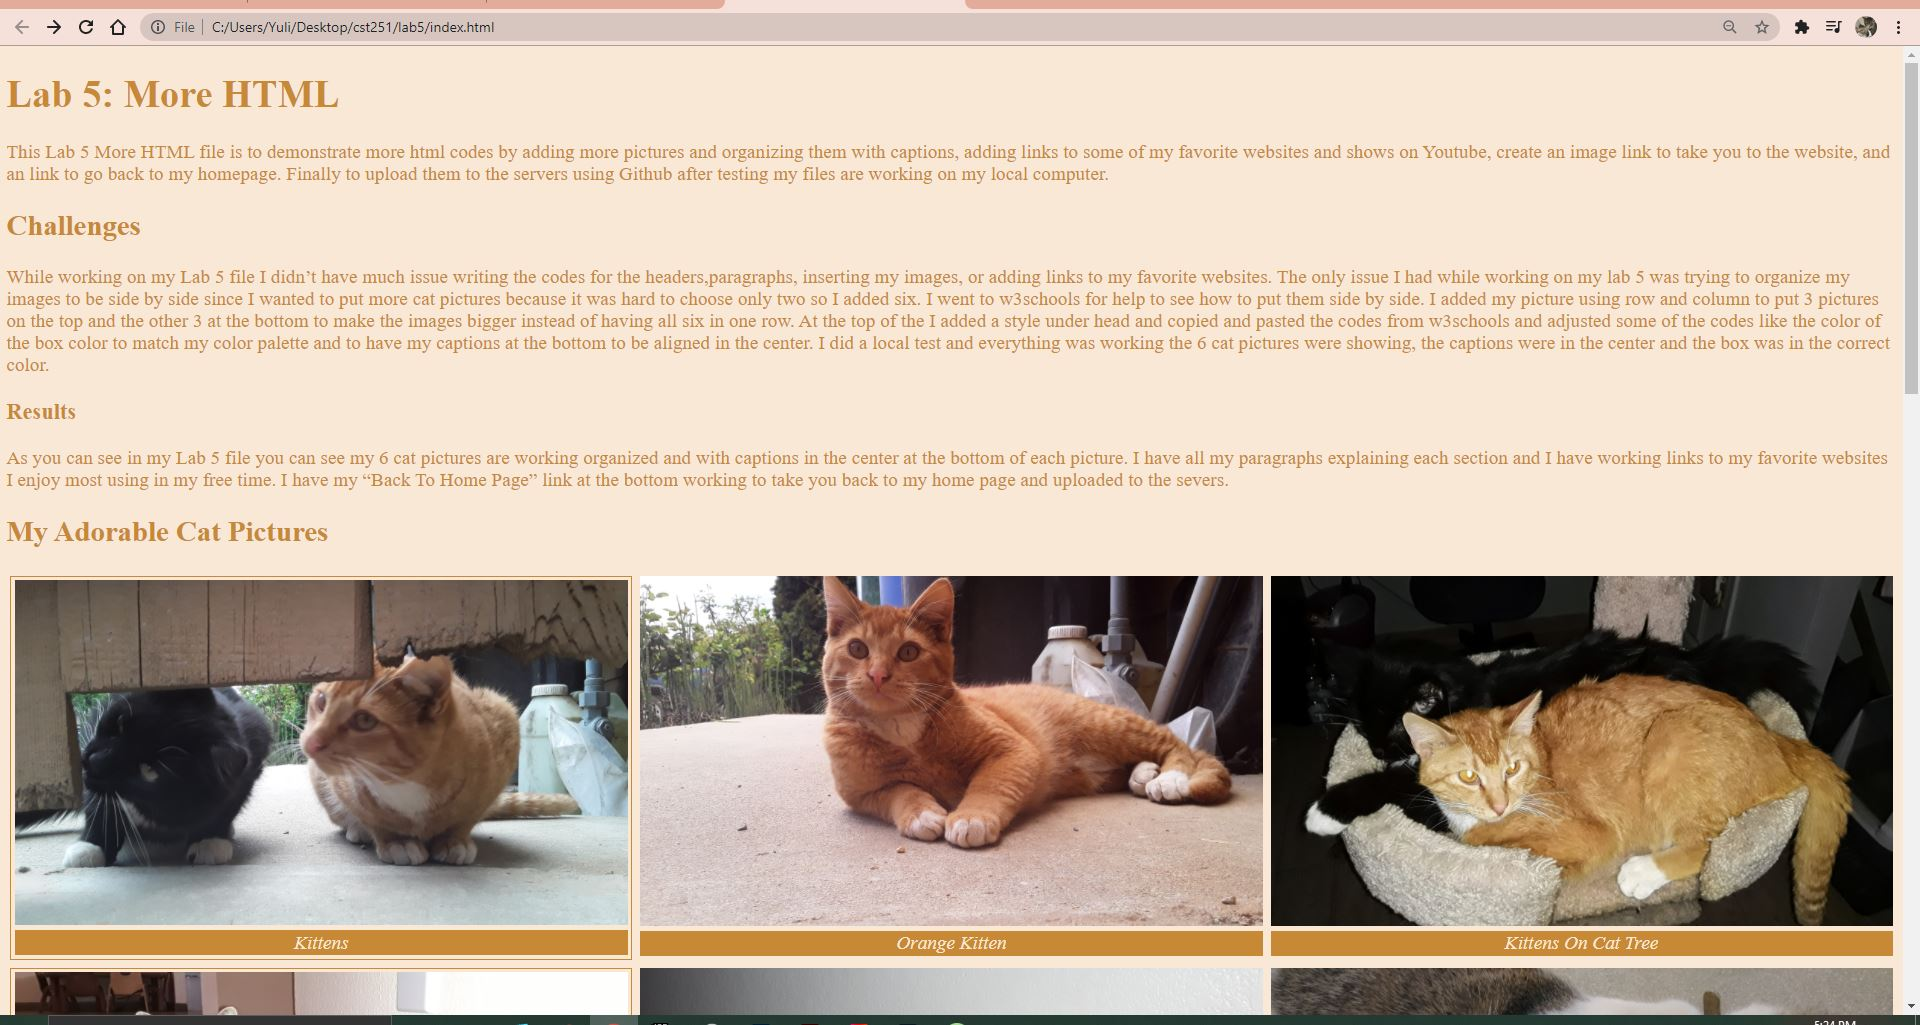
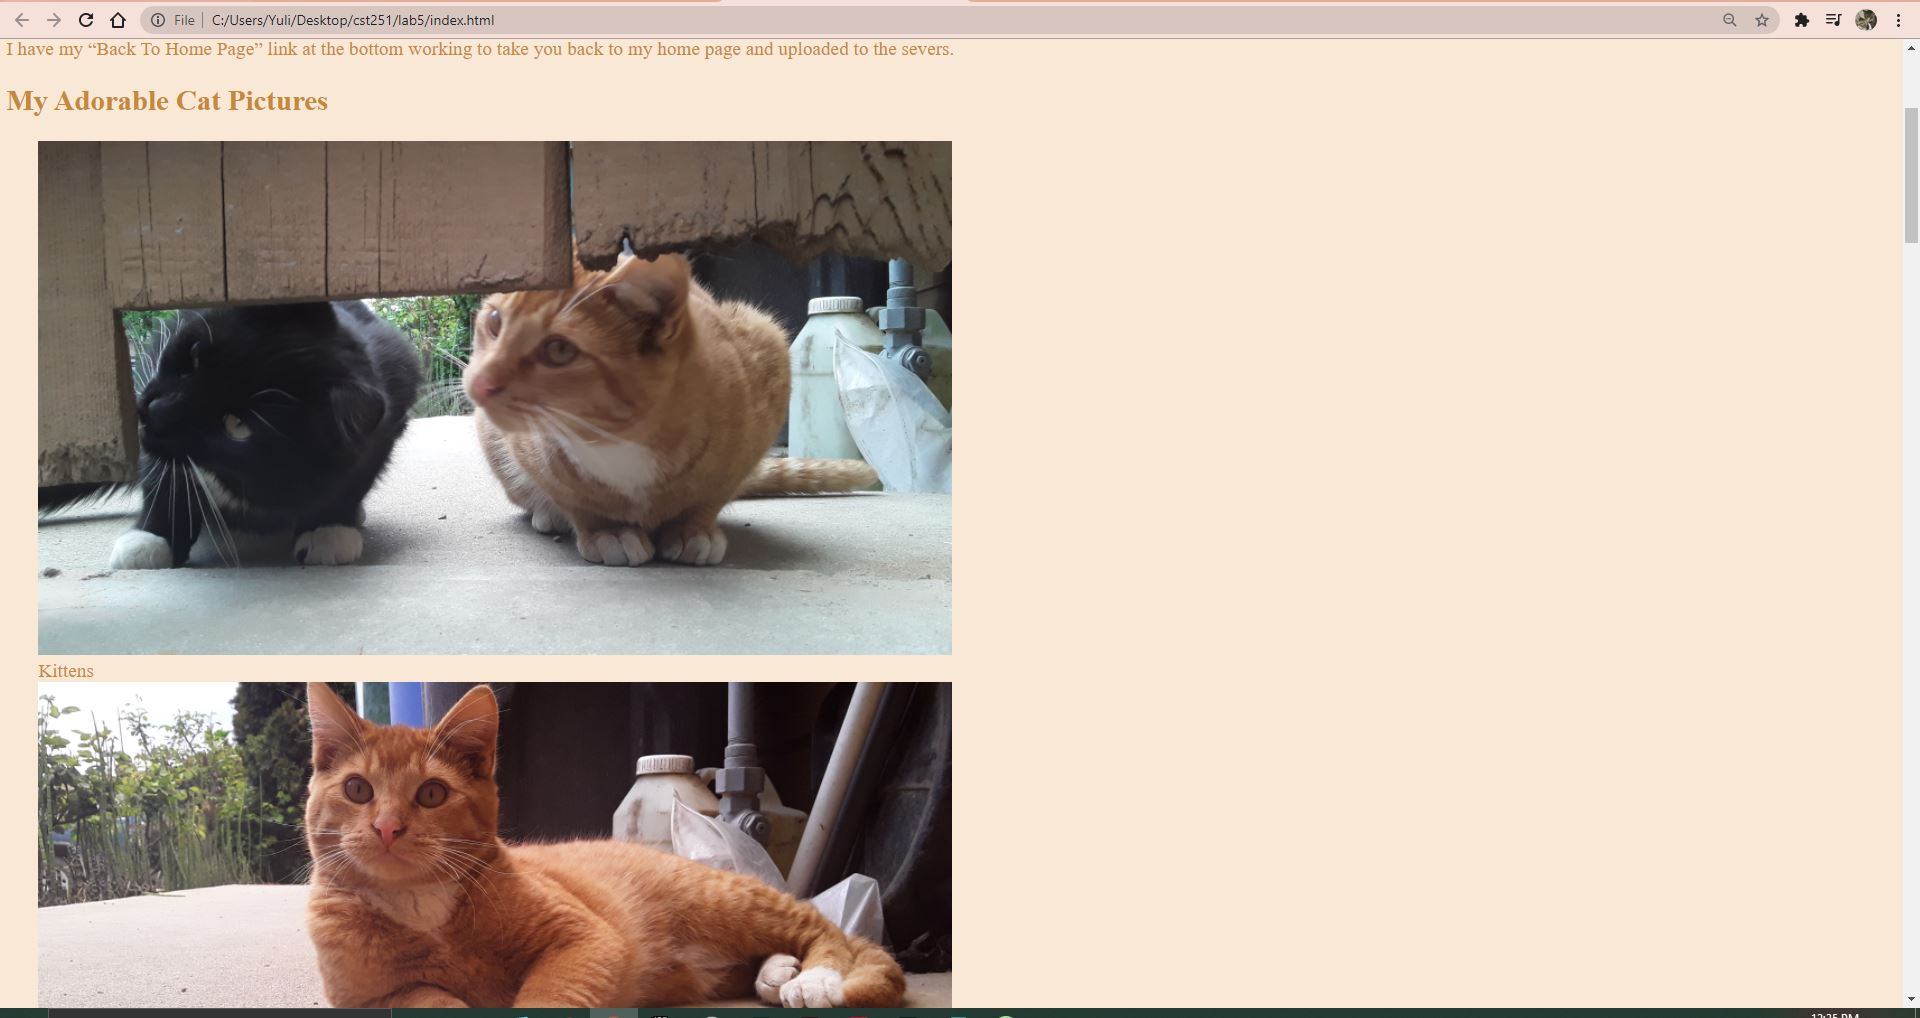
fixed lab5 index.html

diff --git a/lab5/index.html b/lab5/index.html
@@ -1,36 +1,9 @@
 <!DOCTYPE html>
 <html>
 <head>
-	<style>
 	<title>Lab 5: More HTML</title>
 	<link rel="stylesheet" type="text/css" href="../css/site.css">
 	<link rel="stylesheet" type="text/css" href="css/lab.css">
-	* {
-	  box-sizing: border-box;
-	}
-
-	.row {
-	  display: flex;
-	}
-	.column {
-	  flex: 33.33%;
-	  padding: 5px;
-	}
-
-	figure {
-  border: 1px #c88937 solid;
-  padding: 4px;
-  margin: auto;
-}
-
-figcaption {
-  background-color: #c88937;
-  color: #c88937;
-  font-style: italic;
-  padding: 2px;
-  text-align: center;
-}
-	</style>
 </head>
 <body style="background-color:#fae8d6">
 
@@ -46,60 +19,35 @@ figcaption {
 		<p style="color:#c88937;">While working on my Lab 5 file I didn’t have much issue writing
 			the codes for the headers,paragraphs, inserting my images, or adding links to
 			my favorite websites.  The only issue I had while working on my lab 5 was
-			trying to organize my images to be side by side since I wanted to put more
-			cat pictures because it was hard to choose only two so I added six.  I went
-			to w3schools for help to see how to put them side by side. I added my picture
-			using row and column to put 3 pictures on the top and the other 3 at the bottom
-			to make the images bigger instead of having all six in one row.  At the top of
-			the I added a style under head and copied and pasted the codes from w3schools
-			and adjusted some of the codes like the color of the box color to match my
-			color palette and to have my captions at the bottom to be aligned in the center.
-			I did a local test and everything was working the 6 cat pictures were showing,
-			the captions were in the center and the box was in the correct color.</p>
+			the picture because I put more some were showing up testing local but I went back to my
+			files to rename the ones not working to something simple and changed the img code to the
+			new name and did a local test again.  The local was now working perfectly and I
+			tested everything the links and clicking on my pixel art to open to a new tab and
+			returning back to my home page.</p>
 
 <h3 style="color:#c88937;">Results</h3>
 	<p style="color:#c88937;">As you can see in my Lab 5 file you can see my 6 cat
-		pictures are working organized and with captions in the center at the bottom
-		of each picture.  I have all my paragraphs explaining each section and I have
-		working links to my favorite websites I enjoy most using in my free time.  I
-		have my “Back To Home Page” link at the bottom working to take you back to my
-		home page and uploaded to the severs.</p>
+		pictures and with captions at the bottom of each picture.  I have all my paragraphs
+		explaining each section and I have working links to my favorite websites I enjoy
+		most using in my free time.  I have my “Back To Home Page” link at the bottom
+		working to take you back to my home page and uploaded to the severs.</p>
 
 <h2 style="color:#c88937;">My Adorable Cat Pictures</h2>
+	<figure>
+		<img src="img/kittens.jpg" alt="two kittens" style="width:50%">
+			<figcaption style="color:#c88937;">Kittens</figcaption>
+		<img src="img/orange.jpg" alt="Picture of Orange Tabby Cat" style="width:50%">
+			<figcaption style="color:#c88937;">Orange Kitten</figcaption>
+		<img src="img/cattree.jpg" alt="Cats on a Cat Tree" style="width:50%">
+			<figcaption style="color:#c88937;"> Kittens On Cat Tree</figcaption>
+		<img src="img/cats.jpg" alt="Two Cats" style="width:50%">
+			<figcaption style="color:#c88937;">Chi & Black Kitten</figcaption>
+		<img src="img/chi.jpg" alt="Chi Sleeping" style="width:50%"><br>
+			<figcaption style="color:#c88937;">Chi Sleeping</figcaption>
+		<img src="img/kirby.jpg" alt="Kirby Playing" style="width:50%"><br>
+			<figcaption style="color:#c88937;">Kirby Playing With String</figcaption>
+	</figure>
 
-	<div class="row">
-		<div class="column">
-			<figure>
-				<img src="img/kittens.jpg" alt="two kittens" style="width:100%">
-					<figcaption style="color:#fae8d6;">Kittens</figcaption>
-		</div>
-		<div class="column">
-				<img src="img/orange.jpg" alt="Picture of Orange Tabby Cat" style="width:100%">
-					<figcaption style="color:#fae8d6;">Orange Kitten</figcaption>
-		</div>
-		<div class="column">
-				<img src="img/cattree.jpg" alt="Cats on a Cat Tree" style="width:100%">
-					<figcaption style="color:#fae8d6;"> Kittens On Cat Tree</figcaption>
-			</figure>
-		</div>
-	</div>
-
-	<div class="row">
-		<div class="column">
-			<figure>
-					<img src="img/cats.jpg" alt="Two Cats" style="width:100%">
-						<figcaption style="color:#fae8d6;">Chi & Black Kitten</figcaption>
-		</div>
-		<div class="column">
-					<img src="img/chi.jpg" alt="Chi Sleeping" style="width:100%">
-						<figcaption style="color:#fae8d6;">Chi Sleeping</figcation>
-		</div>
-		<div class="column">
-					<img src="img/kirby.jpg" alt="Kirby Playing" style="width:100%">
-						<figcaption style="color:#fae8d6;">Kirby Playing With String</figcaption>
-			</figure>
-		</div>
-	</div>
 <h4 style="color:#c88937;">Some Of My Favorite Websites & Shows on Youtube</h4>
 <nav>
 	<ol>
@@ -119,13 +67,13 @@ figcaption {
 
 <h5 style="color:#c88937;">My Screenshots Progress</h5>
 	<img src="img/lab5codes.jpg" style="width:700px">
-		<figcaption style="color:#fae8d6;">Lab 5 Codes</figcaption>
+		<figcaption style="color:#c88937;">Lab 5 Codes</figcaption>
 	<img src="img/browser.jpg" style="width:1000px">
-		<figcaption style="color:#fae8d6;">Lab 5 On Local Browser</figcaption>
+		<figcaption style="color:#c88937;">Lab 5 On Local Browser</figcaption>
 	<img src="img/github.jpg" style="width:700px">
-		<figcaption style="color:#fae8d6;">Github Changes</figcaption>
+		<figcaption style="color:#c88937;">Github Changes</figcaption>
 	<img src="img/severs.jpg" style="width:1000px">
-		<figcaption style="color:#fae8d6;">Lab 5 On Sever Browser</figcaption>
+		<figcaption style="color:#c88937;">Lab 5 On Sever Browser</figcaption>
 
 	<nav class="assignments major-section">
 		<ul>
